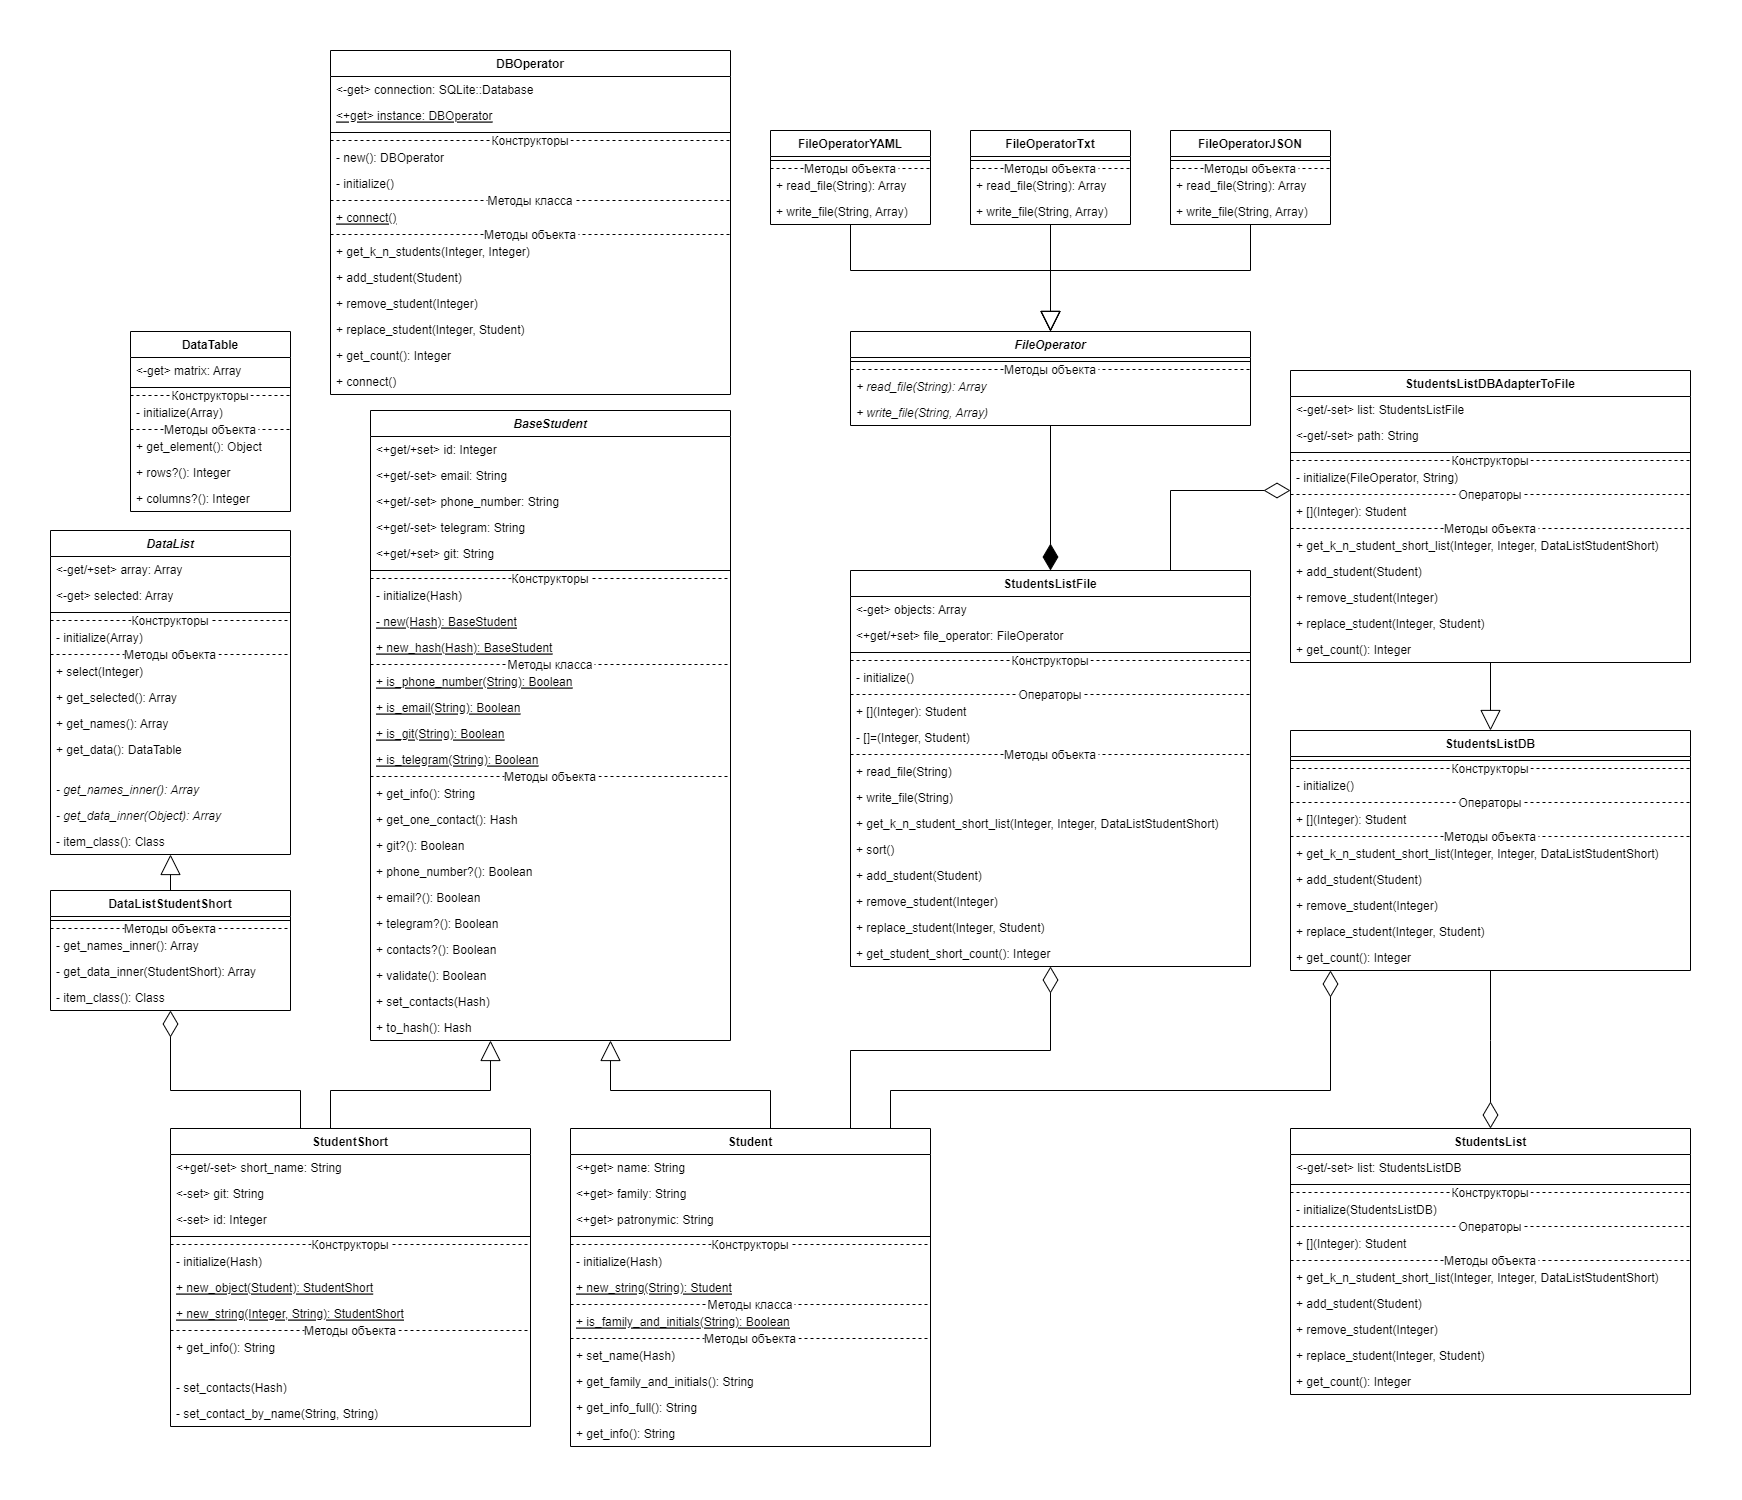
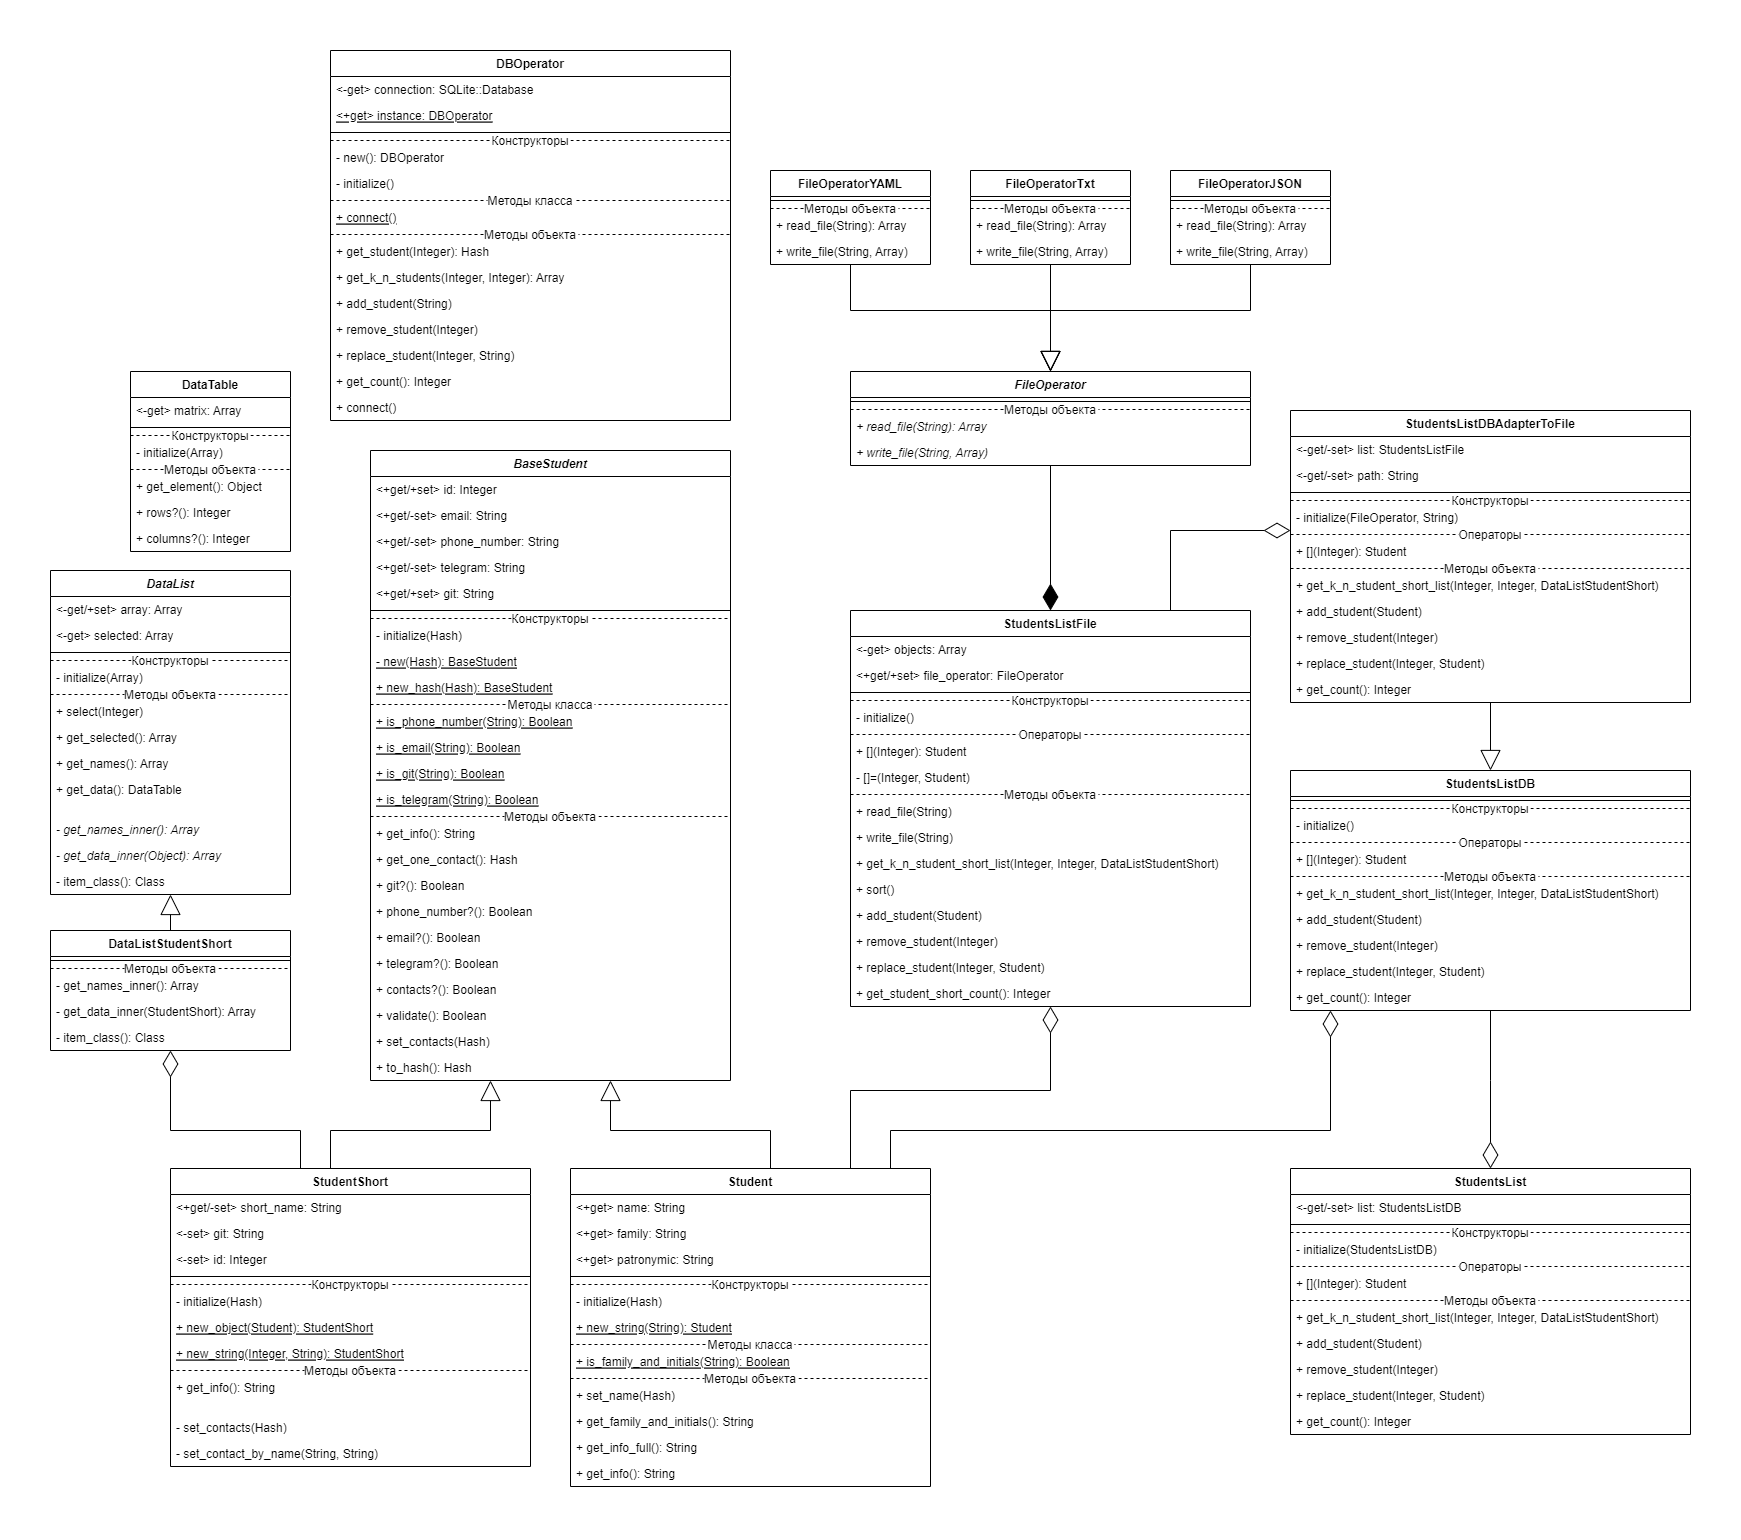
Исправил DBOperator
Теперь он принимает строки и возвращает хэши, объектами не оперирует.

diff --git a/StudentProject/main.rb b/StudentProject/main.rb
@@ -30,7 +30,7 @@ require "sqlite3"
 #result = db.query "SELECT * FROM Student"
 #result.each { |row| puts row }
 
-#object1 = Student.new_hash({id:0, name:"Arbux", family:"Alebarod", patronymic:"Achekavich", phone_number:"+79189356731", email:"address@mail.sd", telegram:"@ahto_ahaha", git:"https://github.com/CyBeR_uSeR"})
+object1 = Student.new_hash({id:0, name:"Arbux", family:"Alebarod", patronymic:"Achekavich", phone_number:"+79189356731", email:"address@mail.sd", telegram:"@ahto_ahaha", git:"https://github.com/CyBeR_uSeR"})
 #object2 = Student.new_hash({id:1, name:"Ti", family: "Prikki", patronymic:"Noitaich", email:"my_bestEmail3@cybermail.gog", git:"gitlab.com/stellAr"})
 #object3 = Student.new(hash:{id:"2", name:"lARrius", family:"VarrO", patronymic:"sToRyViCh", phone_number:79336421496, telegram:"BloodBath"})
 #object4 = Student.new_string("3;NAME;FAMILIAR;PAPAPAPA;89882883838;;;")
@@ -132,12 +132,14 @@ require "sqlite3"
 
 #DBOperator.connect("database/students.db")
 #list = StudentsList.new(StudentsListDB.new())
+#list.remove_student(17)
+#puts Student.new_hash(DBOperator.instance.get_student(1)).get_info()
 #object = Student.new_string(list[2].get_info_full())
-list = StudentsList.new(StudentsListDBAdapterToFile.new(FileOperatorTXT.new(), "test.txt"))
+#list = StudentsList.new(StudentsListDBAdapterToFile.new(FileOperatorTXT.new(), "test.txt"))
 #list.remove_student(3)
 #list.add_student(object)
 
-object = Student.new_string(list[4].get_info_full())
-list = StudentsList.new(StudentsListDBAdapterToFile.new(FileOperatorYAML.new(), "test.yaml"))
-list.remove_student(1)
-list.replace_student(2,object)
+#object = Student.new_string(list[4].get_info_full())
+#list = StudentsList.new(StudentsListDBAdapterToFile.new(FileOperatorYAML.new(), "test.yaml"))
+#list.remove_student(1)
+#list.replace_student(2,object)

diff --git a/StudentProject/data operators/db_operator.rb b/StudentProject/data operators/db_operator.rb
@@ -1,4 +1,3 @@
-require_relative "../student/student.rb"
 class DBOperator
     ### GENERATED
 	private attr_reader :connection
@@ -17,31 +16,29 @@ class DBOperator
     public
 
     def get_student(id)
-        return Student.new_hash(self.connection.query("SELECT * FROM Student WHERE ID=#{id}").next.transform_keys(&:to_sym))
+        return self.connection.query("SELECT * FROM Student WHERE ID=#{id}").next.transform_keys(&:to_sym)
     end
 
     def get_k_n_students(k, n)
 		result = self.connection.query("SELECT * FROM Student LIMIT #{k*n},#{n}")
 		output = []
 		result.each { |row|
-			#puts row
-			output.push(Student.new_hash(row.transform_keys(&:to_sym)))
+			output.push(row.transform_keys(&:to_sym))
 		}
 		return output
 	end
 
-    def add_student(object)
+    def add_student(fields)
         self.connection.execute("INSERT INTO Student (name, family, patronymic, git, phone_number, telegram, email)
-		VALUES ('#{object.name}', '#{object.family}', '#{object.patronymic}', '#{object.git}', '#{object.phone_number}', '#{object.telegram}', '#{object.email}')")
+		VALUES (#{fields})")
 	end
 
     def remove_student(id)
 		self.connection.execute("DELETE FROM Student WHERE id=#{id}")
 	end
 
-    def replace_student(id, object)
-		self.connection.execute("UPDATE Student SET name='#{object.name}', family='#{object.family}', patronymic='#{object.patronymic}',
-			git='#{object.git}', phone_number='#{object.phone_number}', telegram='#{object.telegram}', email='#{object.email}'
+    def replace_student(id, fields)
+		self.connection.execute("UPDATE Student SET #{fields}
 			WHERE id=#{id}")
 	end
 

diff --git a/StudentProject/collections/students_list_db.rb b/StudentProject/collections/students_list_db.rb
@@ -16,7 +16,7 @@ class StudentsListDB
 	public
 	
 	def [](id)
-		return DBOperator.instance.get_student(id)
+		return Student.new_hash(DBOperator.instance.get_student(id))
 	end
 	
 	def get_k_n_student_short_list(k, n, input = nil)
@@ -24,7 +24,7 @@ class StudentsListDB
 		output = []
 		result.each { |student|
 			#puts row
-			output.push(StudentShort.new_object(student))
+			output.push(StudentShort.new_object(Student.new_hash(student)))
 		}
 		if input == nil
 			return DataListStudentShort.new(output)
@@ -34,7 +34,7 @@ class StudentsListDB
 	end
 	
 	def add_student(object)
-		DBOperator.instance.add_student(object)
+		DBOperator.instance.add_student("'#{object.name}', '#{object.family}', '#{object.patronymic}', '#{object.git}', '#{object.phone_number}', '#{object.telegram}', '#{object.email}'")
 	end
 	
 	def remove_student(id)
@@ -42,7 +42,8 @@ class StudentsListDB
 	end
 	
 	def replace_student(id, object)
-		DBOperator.instance.replace_student(id, object)
+		DBOperator.instance.replace_student(id, "name='#{object.name}', family='#{object.family}', patronymic='#{object.patronymic}',
+			git='#{object.git}', phone_number='#{object.phone_number}', telegram='#{object.telegram}', email='#{object.email}'")
 	end
 	
 	def get_count()
